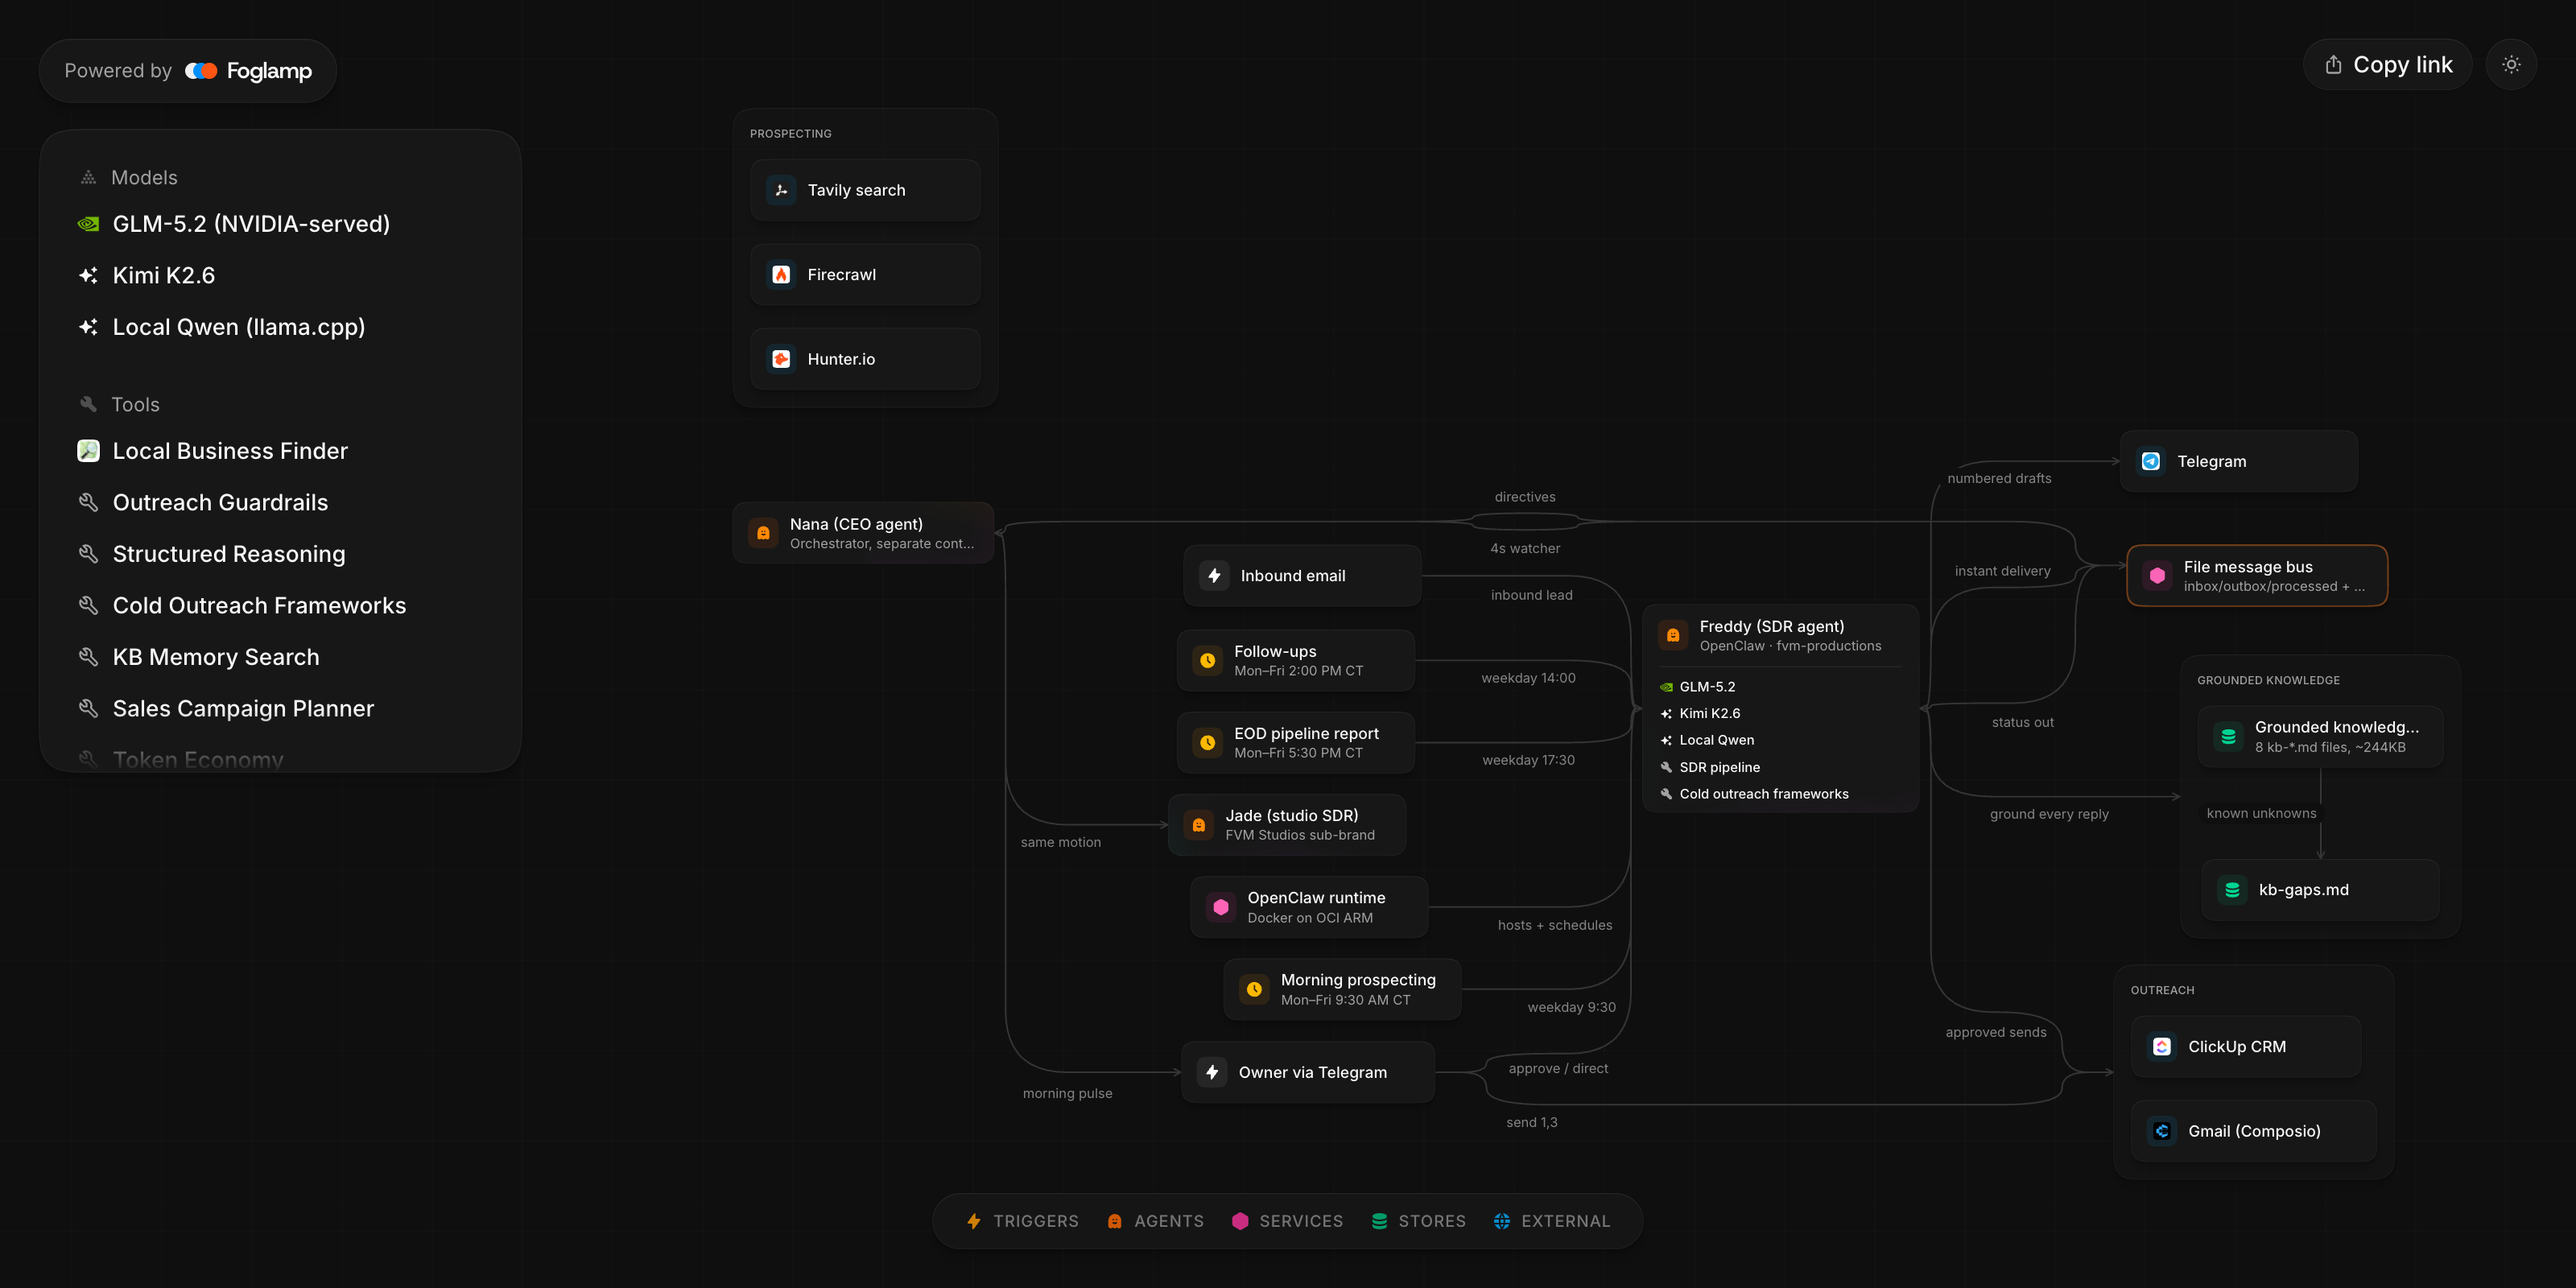
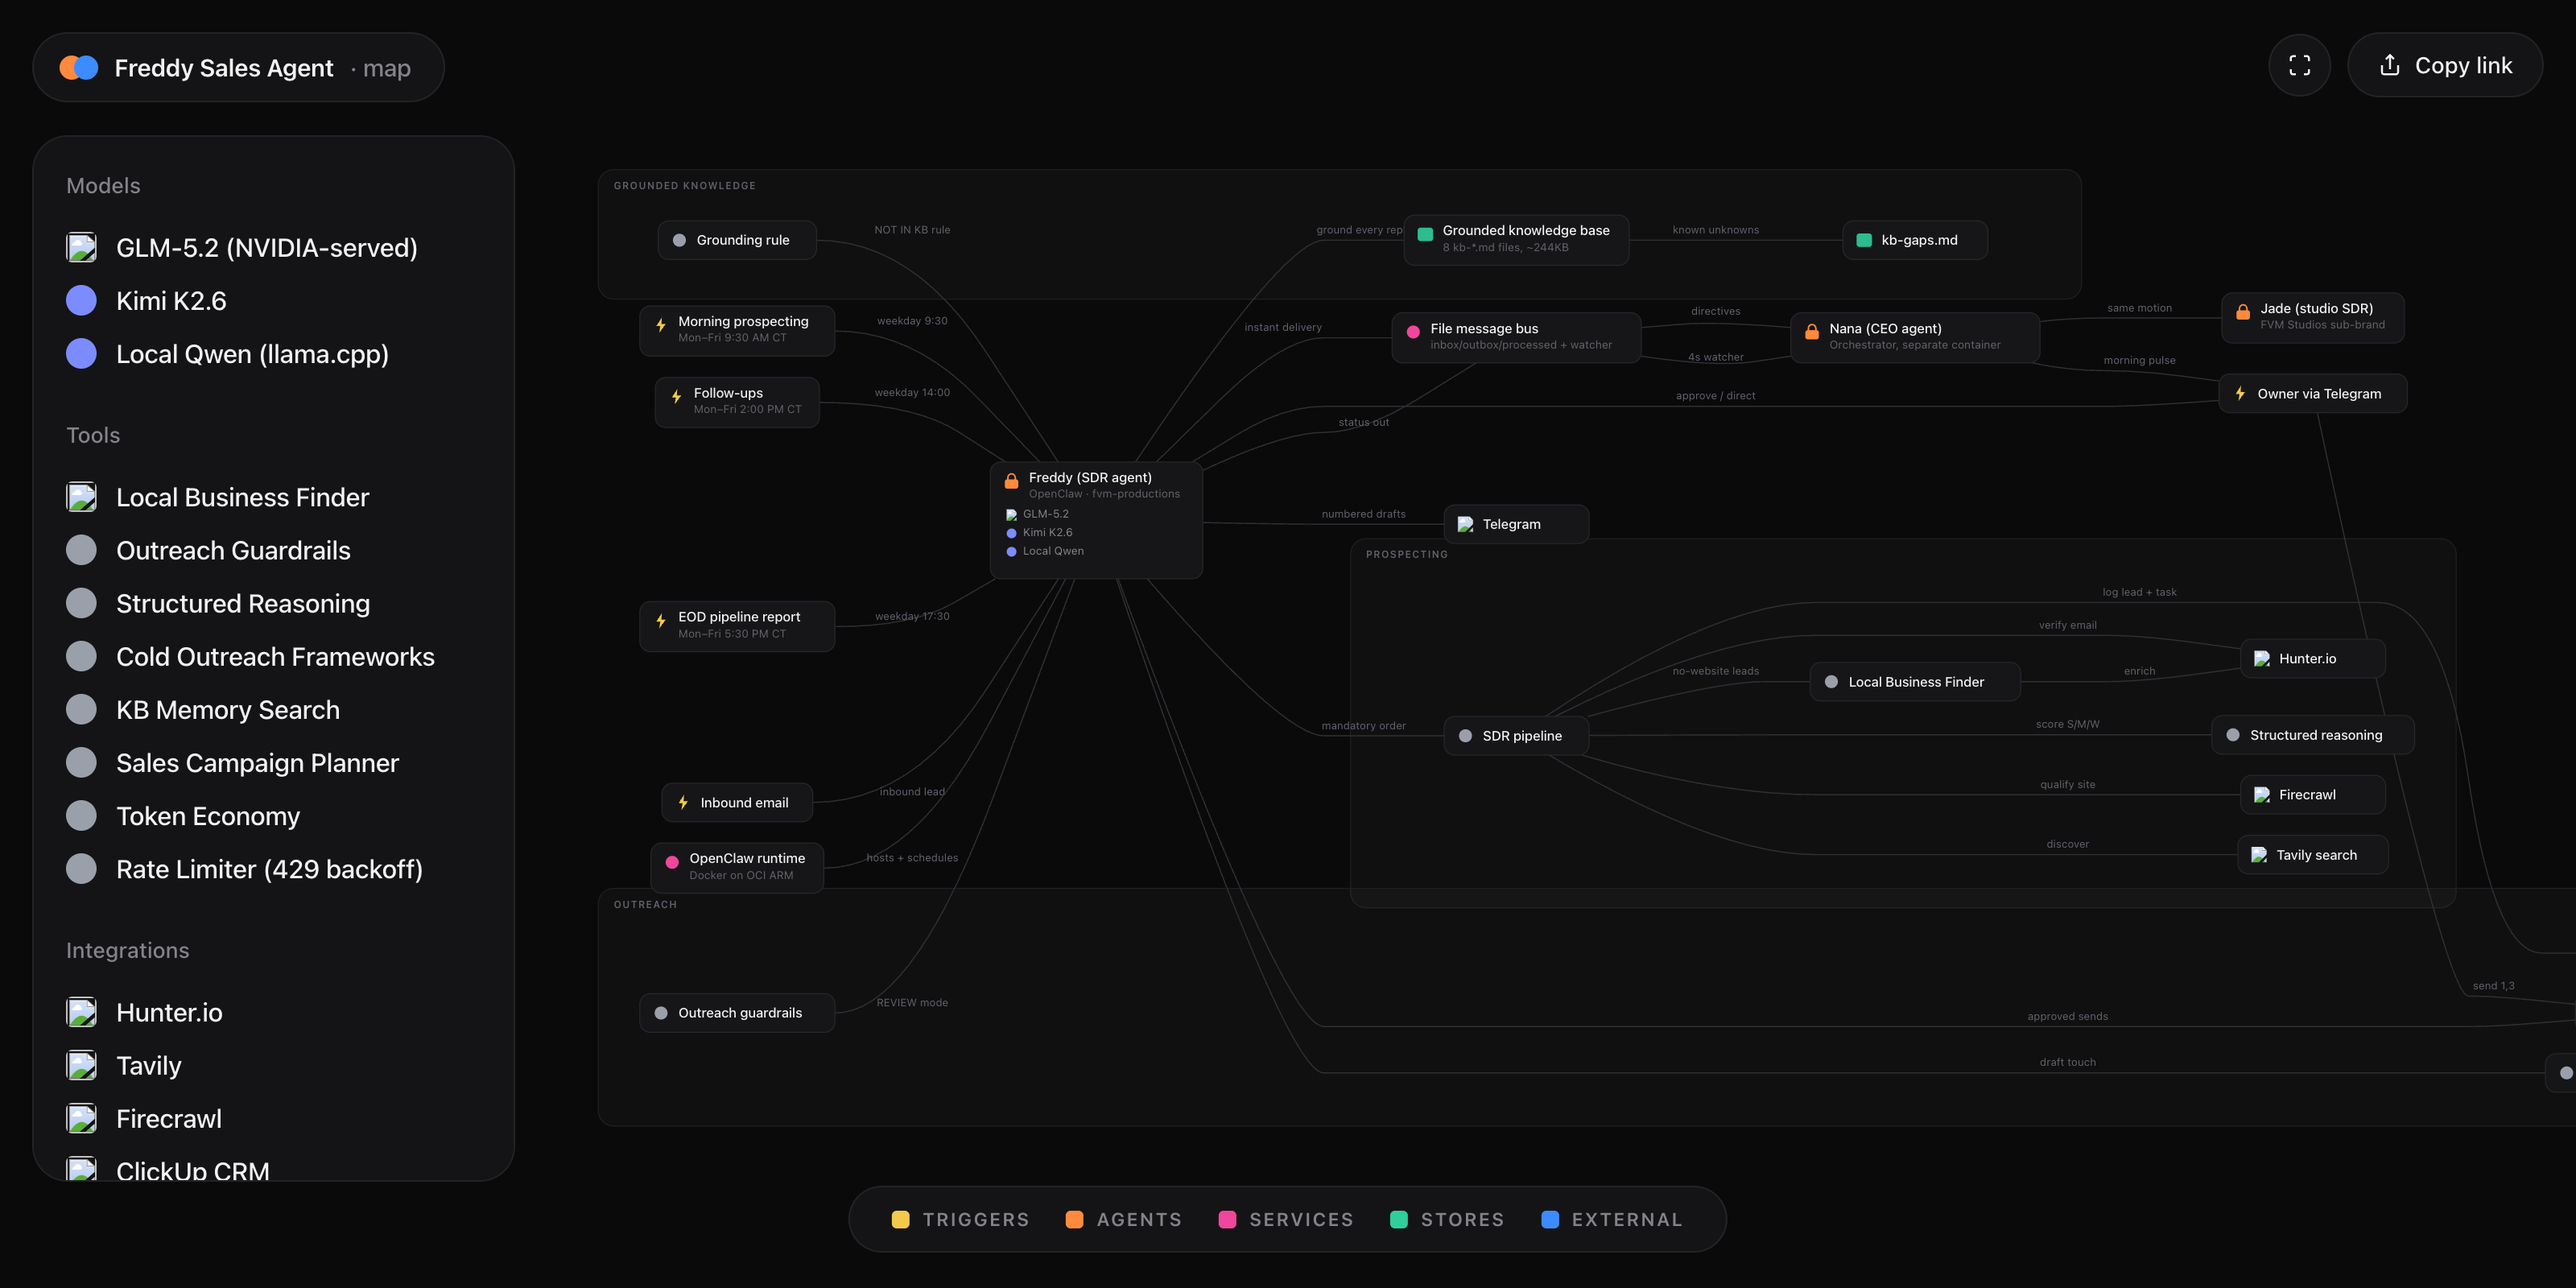
docs: self-hosted architecture map (own renderer, no third-party dependency)

diff --git a/README.md b/README.md
@@ -2,9 +2,9 @@
 
 An autonomous SDR and revenue agent for Freddyville Media Productions — it prospects, qualifies, and drafts; a human sends.
 
-[![Architecture map](banner.png)](https://foglamp.dev/scan/freddy-sales-agent-5exxih)
+[![Architecture map](banner.png)](https://fred-in-tech.github.io/architecture-maps/freddy-sales-agent/)
 
-*Interactive architecture map: [foglamp scan](https://foglamp.dev/scan/freddy-sales-agent-5exxih)*
+*Interactive, pannable version: [open the architecture map](https://fred-in-tech.github.io/architecture-maps/freddy-sales-agent/)*
 
 ## What it is
 
